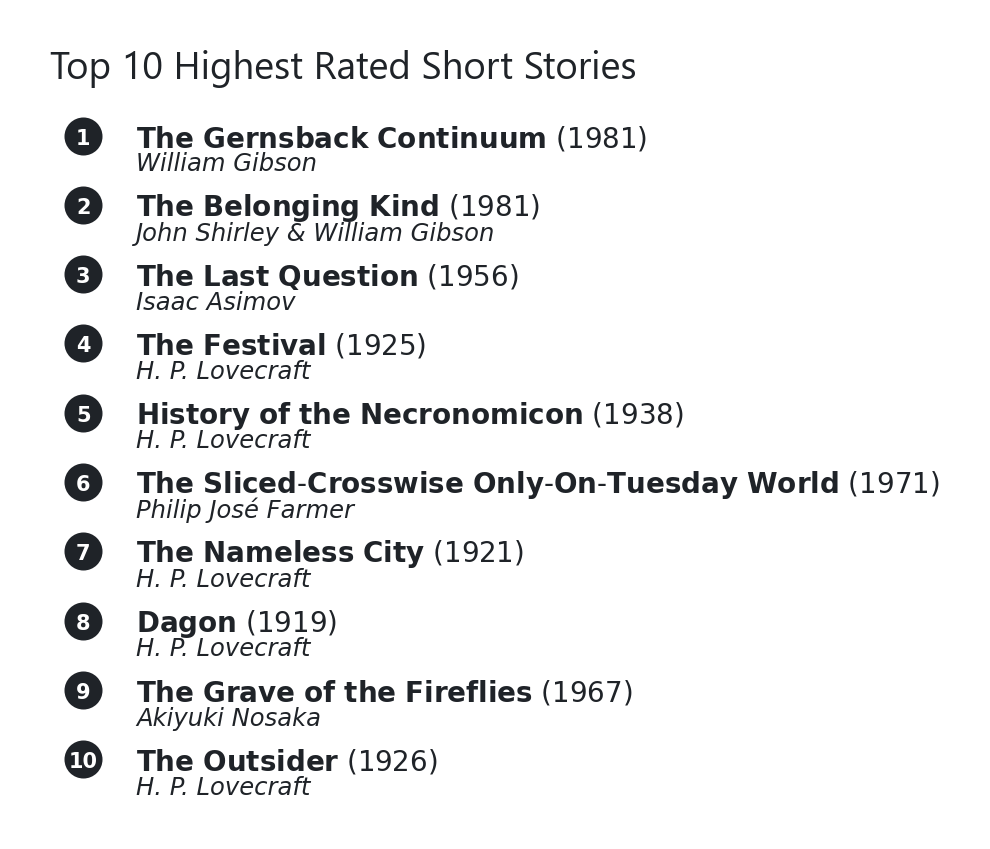
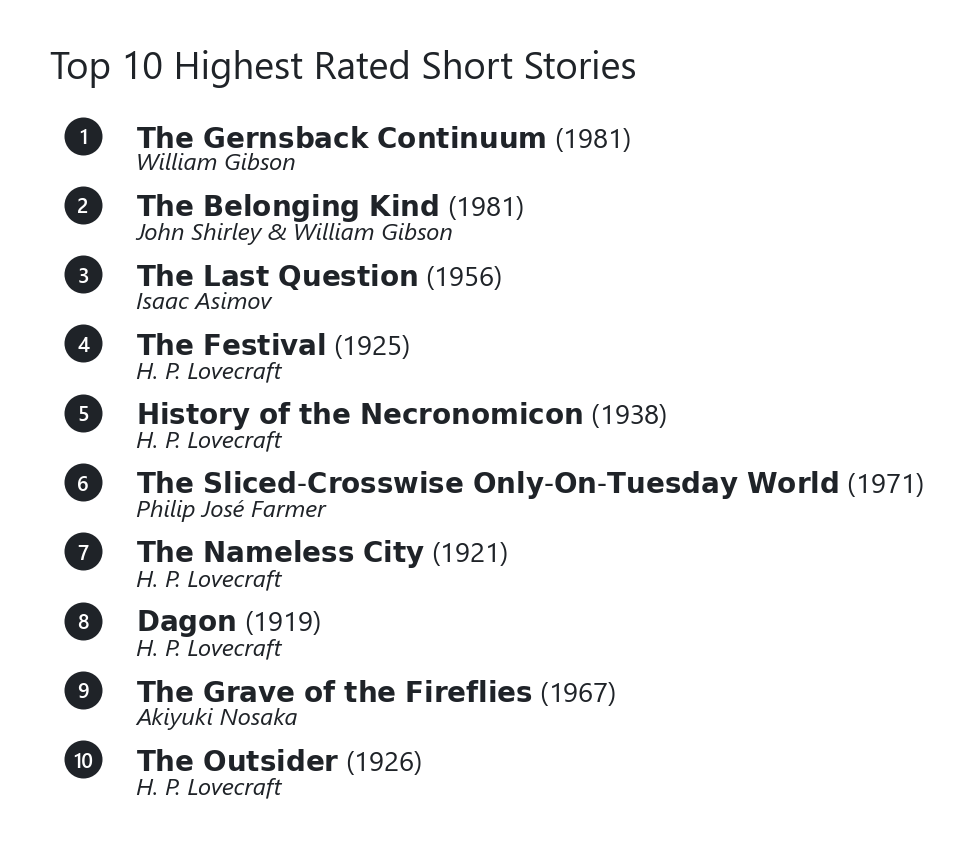
Move font name to Settings.

diff --git a/src/authors.py b/src/authors.py
@@ -9,7 +9,6 @@ from settings import Settings
 
 TITLE_FONTSIZE = 5.5
 TICK_LABELS_FONTSIZE = 3.5
-FONTNAME = "Segoe UI"
 QUERY = """
     SELECT
         R.WorkID,
@@ -95,9 +94,9 @@ def plot_most_read_authors(df: pd.DataFrame) -> None:
     ax.set_xlim(0, 25000)
     ax.set_xticks([0, 25000])
     ax.set_xticks([5000, 10000, 15000, 20000], minor=True)
-    ax.set_xticklabels(["0", "25k"], fontdict={"fontname": FONTNAME})
+    ax.set_xticklabels(["0", "25k"], fontdict={"fontname": Settings.FONTNAME})
     ax.set_xticklabels(["5k", "10k", "15k", "20k"], minor=True,
-                       fontdict={"fontname": FONTNAME})
+                       fontdict={"fontname": Settings.FONTNAME})
 
     ax.xaxis.tick_top()
     ax.xaxis.set_label_position('top')
@@ -112,7 +111,7 @@ def plot_most_read_authors(df: pd.DataFrame) -> None:
                    length=0, labelcolor=Colors.DARKGRAY)
 
     for tick in ax.get_yticklabels():
-        tick.set_fontname(FONTNAME)
+        tick.set_fontname(Settings.FONTNAME)
 
     for spine in ["right", "left", "bottom"]:
         ax.spines[spine].set_visible(False)
@@ -125,13 +124,13 @@ def plot_most_read_authors(df: pd.DataFrame) -> None:
     for i, row in df.iterrows():
         ax.text(row["PageCount"], i - 0.5, row["PageCount"], zorder=11,
                 size=2.25, va="center", ha="center", color=Colors.DARKGRAY,
-                fontname=FONTNAME)
+                fontname=Settings.FONTNAME)
 
     plt.text(
         -0.4, 1.15, va="bottom", ha="left", fontsize=TITLE_FONTSIZE,
         transform=ax.transAxes, color=Colors.DARKGRAY,
         s=f"Top {len(df)} Most Read Authors by Page Count",
-        fontname=FONTNAME,
+        fontname=Settings.FONTNAME,
     )
 
     fig.savefig("images/most_read_authors.png", dpi=500, bbox_inches="tight")
@@ -152,9 +151,9 @@ def plot_highest_rated_authors(df: pd.DataFrame) -> None:
     ax.set_xlim(0, 5)
     ax.set_xticks([0, 5])
     ax.set_xticks([1, 2, 3, 4], minor=True)
-    ax.set_xticklabels(["0", "5"], fontdict={"fontname": FONTNAME})
+    ax.set_xticklabels(["0", "5"], fontdict={"fontname": Settings.FONTNAME})
     ax.set_xticklabels(["1", "2", "3", "4"], minor=True,
-                       fontdict={"fontname": FONTNAME})
+                       fontdict={"fontname": Settings.FONTNAME})
 
     ax.xaxis.tick_top()
     ax.xaxis.set_label_position('top')
@@ -169,7 +168,7 @@ def plot_highest_rated_authors(df: pd.DataFrame) -> None:
                    length=0, labelcolor=Colors.DARKGRAY)
 
     for tick in ax.get_yticklabels():
-        tick.set_fontname(FONTNAME)
+        tick.set_fontname(Settings.FONTNAME)
 
     for spine in ["right", "left", "bottom"]:
         ax.spines[spine].set_visible(False)
@@ -182,14 +181,14 @@ def plot_highest_rated_authors(df: pd.DataFrame) -> None:
     for i, score in enumerate(df_filtered["WeightedScore"]):
         ax.text(score, i - 0.5,
                 str(round(score, 2)).ljust(4, "0"),
-                zorder=11, size=2.25, va="center", ha="center", color=Colors.DARKGRAY,
-                fontname=FONTNAME,)
+                zorder=11, size=2.25, va="center", ha="center",
+                color=Colors.DARKGRAY, fontname=Settings.FONTNAME,)
 
     plt.text(
         -0.4, 1.15, va="bottom", ha="left", fontsize=TITLE_FONTSIZE,
         transform=ax.transAxes, color=Colors.DARKGRAY,
         s=f"Scores of Authors with {df.min_pages_read}+ Pages Read",
-        fontname=FONTNAME,
+        fontname=Settings.FONTNAME,
     )
 
     fig.savefig("images/authors_scores.png",

diff --git a/src/works.py b/src/works.py
@@ -7,10 +7,9 @@ import matplotlib.pyplot as plt
 from settings import Settings
 from colors import Colors
 
-
 TITLE_FONTSIZE = 5.5
 TICK_LABELS_FONTSIZE = 3.5
-FONTNAME = "Segoe UI"
+
 QUERY = """
     SELECT
         R.WorkID,
@@ -73,23 +72,26 @@ class WorksAnalysis:
             j = N_WORKS - i
             ax.scatter(0, i, s=20, color=Colors.DARKGRAY, zorder=20)
             ax.text(x=0, y=i + TEXT_OFFSET, s=str(j), ha="center", va="center",
-                    color=Colors.WHITE, size=3, weight=600, zorder=21)
+                    color=Colors.WHITE, size=3, weight=600, zorder=21,
+                    fontname=Settings.FONTNAME,)
             name = df.loc[j]['Name'].replace(' ', '\\ ').replace(
                 "-", r"\text{-}")
             year = df.loc[j]['PublishedOn']
             ax.text(x=0.4, y=i + TEXT_OFFSET, s=f"$\\bf{{{name}}}$ ({year})",
-                    ha="left", va="center", color=Colors.DARKGRAY, size=4)
+                    ha="left", va="center", color=Colors.DARKGRAY, size=4,
+                    fontname=Settings.FONTNAME,)
             authors = self.get_work_authors_list(str(df.loc[j]['Name']))
             authors_text = " & ".join(authors)
             ax.text(x=0.4, y=i - 0.4, s=authors_text, style='italic',
-                    ha="left", va="center", color=Colors.DARKGRAY, size=3.5)
+                    ha="left", va="center", color=Colors.DARKGRAY, size=3.5,
+                    fontname=Settings.FONTNAME,)
 
         plt.text(
             0, 1.02, va="bottom", ha="left", fontsize=TITLE_FONTSIZE,
             transform=ax.transAxes, color=Colors.DARKGRAY,
             s=f"Top {N_WORKS} Highest Rated "
               f"{Settings.PLURAL_WORK_NAME[work_type]}",
-            fontname=FONTNAME,
+            fontname=Settings.FONTNAME,
         )
 
         fig.savefig(

diff --git a/src/settings.py b/src/settings.py
@@ -1,6 +1,6 @@
 class Settings:
     DATABASE_PATH = "data/raw/books.db"
-
+    FONTNAME = "Segoe UI"
     PLURAL_WORK_NAME: dict = {
         "Novel": "Novels",
         "Short Story": "Short Stories",
